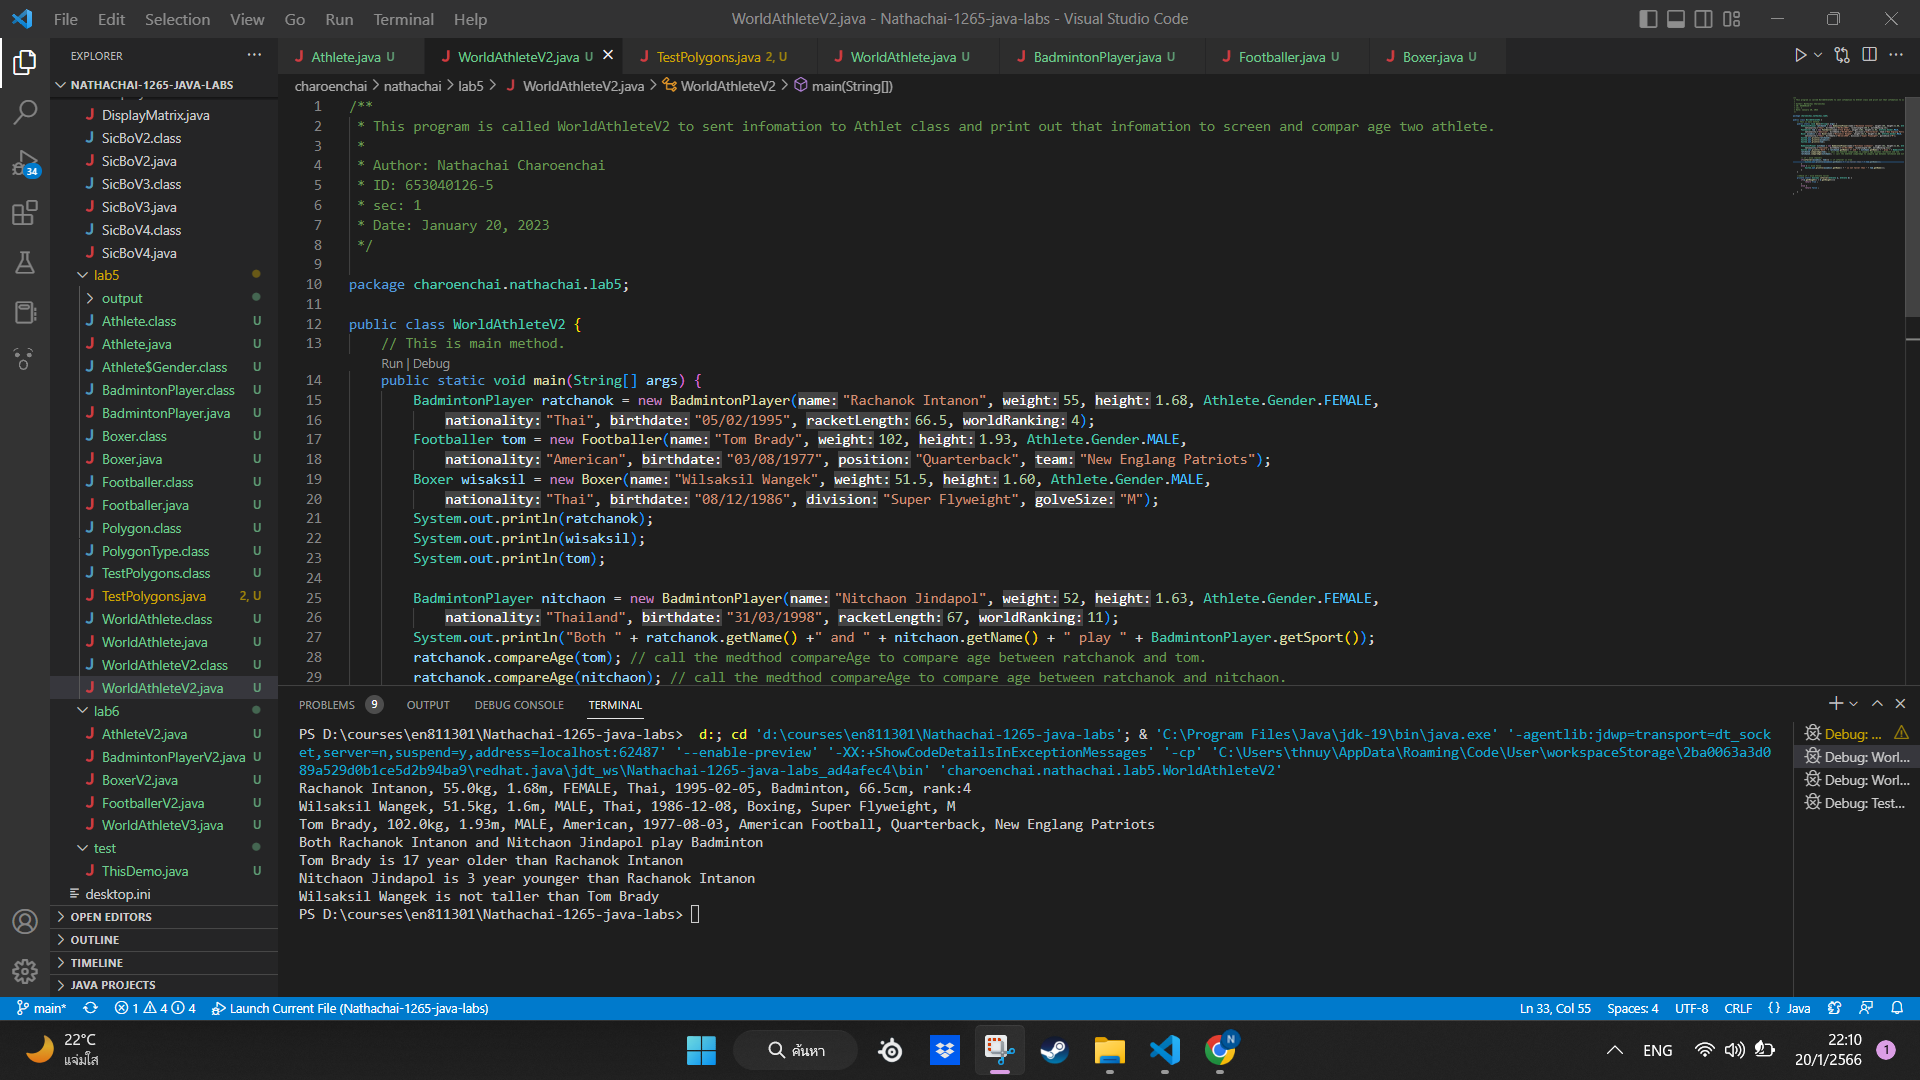
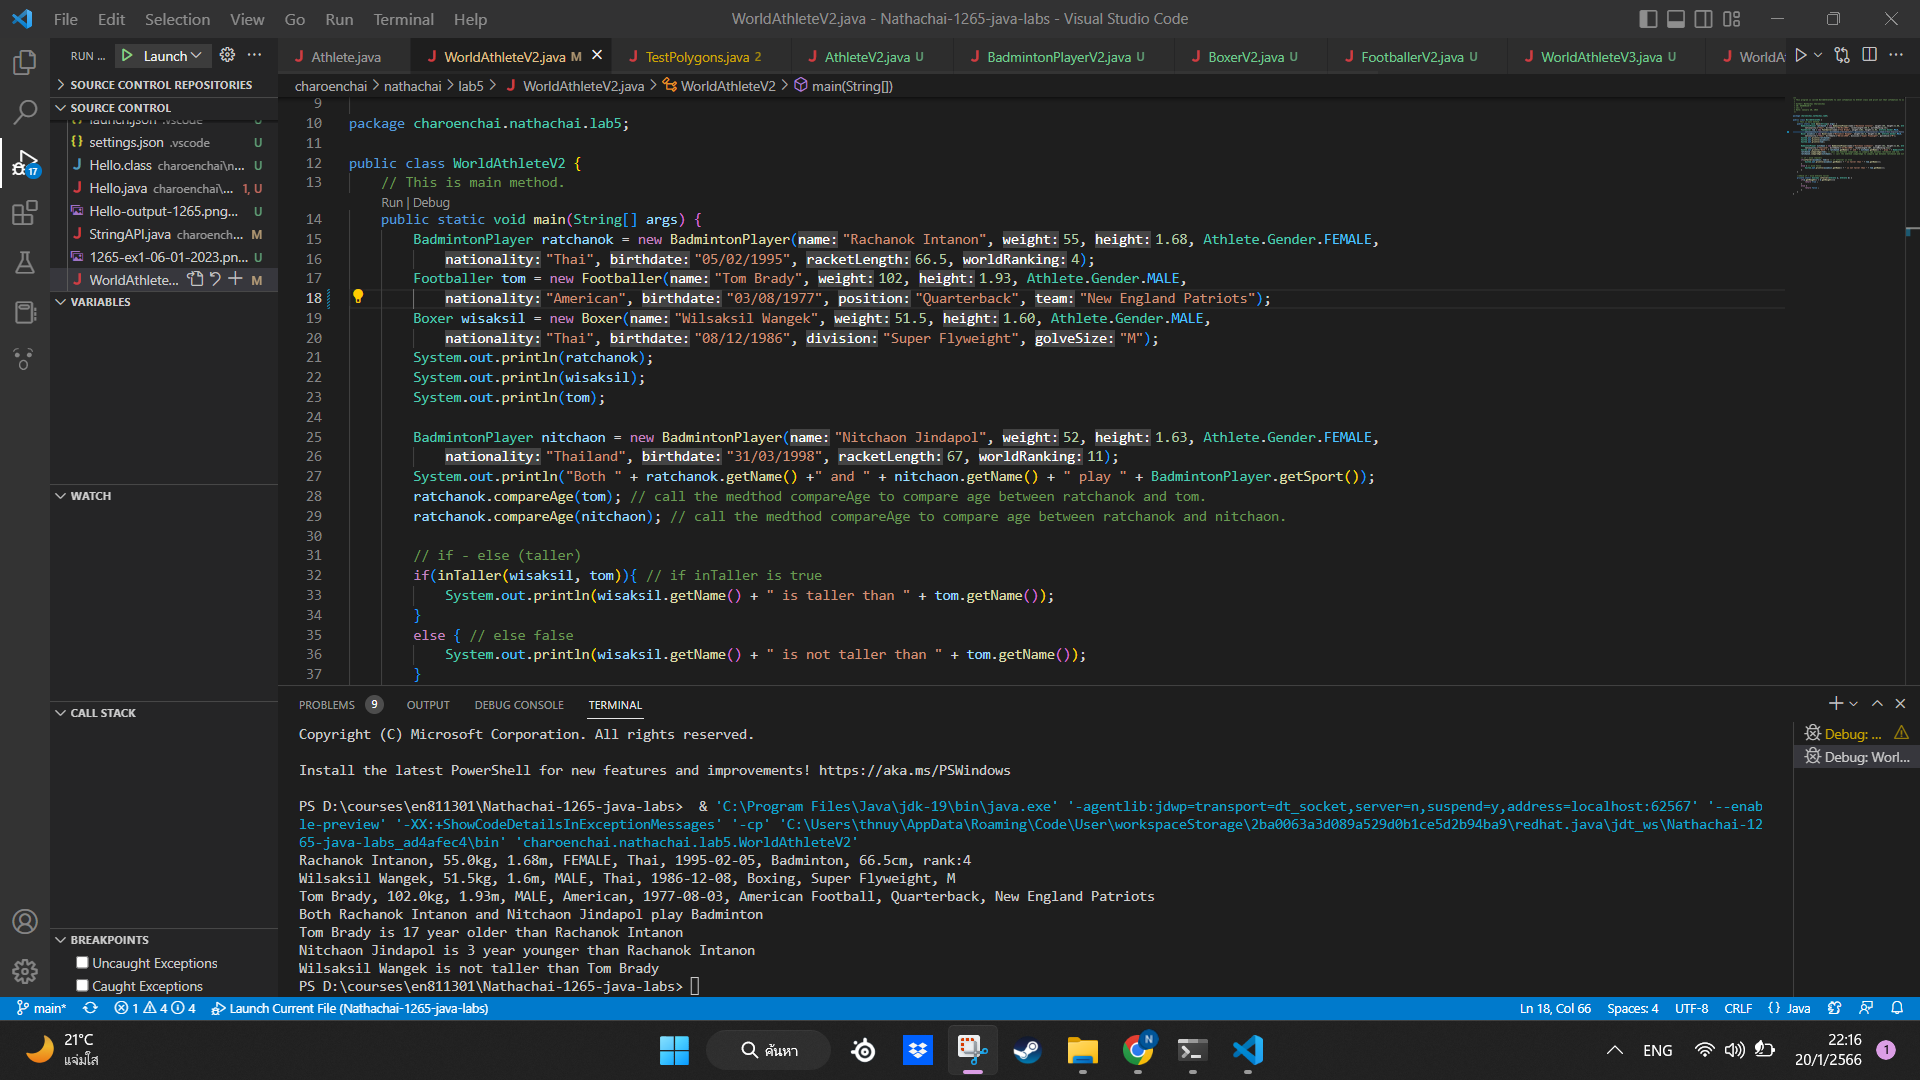
add lab5

diff --git a/charoenchai/nathachai/lab5/WorldAthleteV2.java b/charoenchai/nathachai/lab5/WorldAthleteV2.java
@@ -15,7 +15,7 @@ public class WorldAthleteV2 {
         BadmintonPlayer ratchanok = new BadmintonPlayer("Rachanok Intanon", 55, 1.68, Athlete.Gender.FEMALE, 
             "Thai", "05/02/1995", 66.5, 4);
         Footballer tom = new Footballer("Tom Brady", 102, 1.93, Athlete.Gender.MALE, 
-            "American", "03/08/1977", "Quarterback", "New Englang Patriots");
+            "American", "03/08/1977", "Quarterback", "New England Patriots");
         Boxer wisaksil = new Boxer("Wilsaksil Wangek", 51.5, 1.60, Athlete.Gender.MALE, 
             "Thai", "08/12/1986", "Super Flyweight", "M");
         System.out.println(ratchanok);
